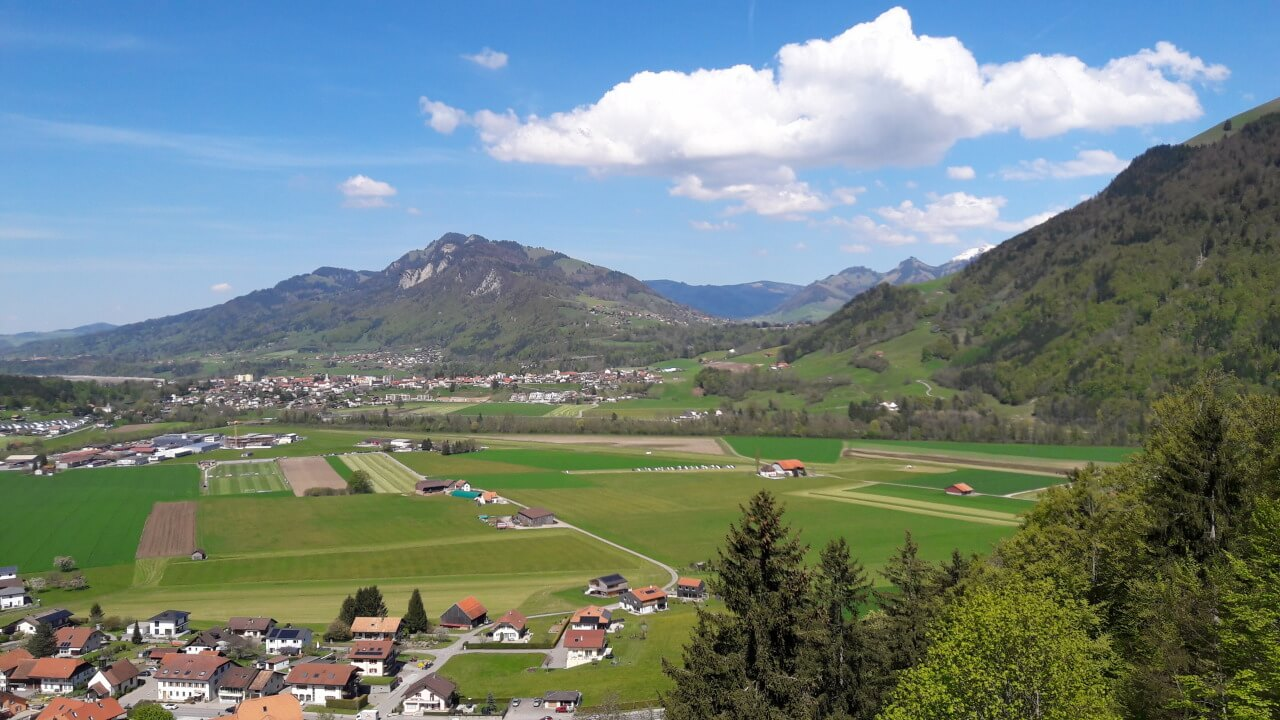
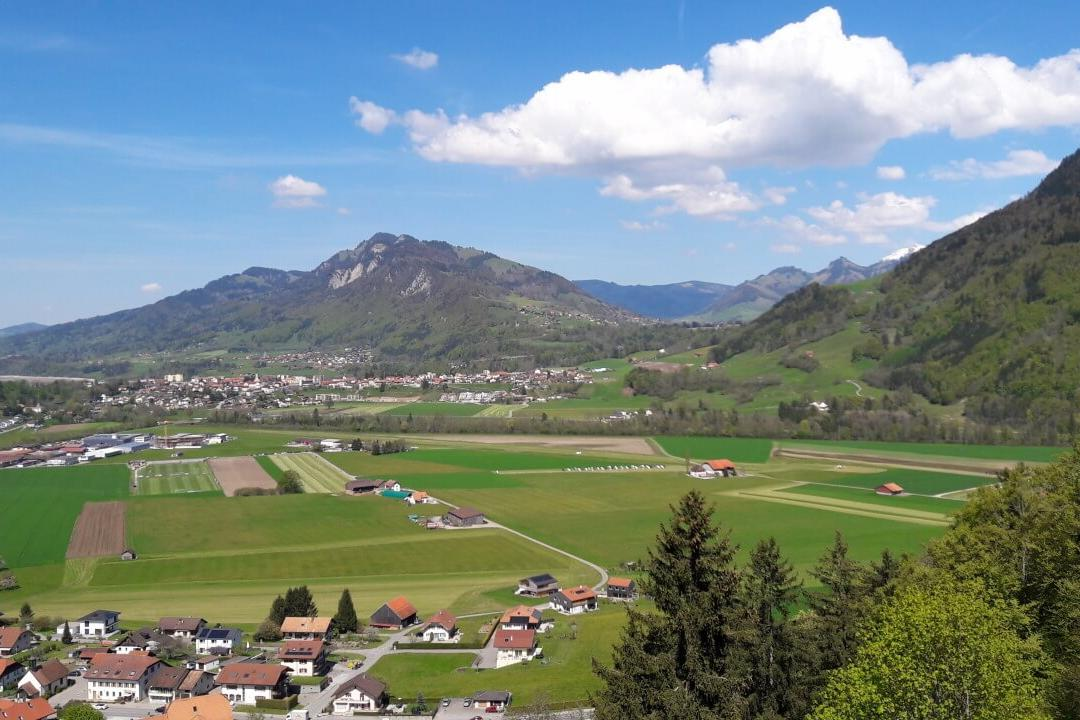
Gruyere hinzugefügt

diff --git a/Gruyere/Gruyere_komplett.tex b/Gruyere/Gruyere_komplett.tex
@@ -1,0 +1,54 @@
+\documentclass[11pt,nswissgerman]{article}
+\usepackage{helvet}
+\renewcommand{\familydefault}{\sfdefault}
+\usepackage[latin2]{inputenc}
+\usepackage[a4paper]{geometry}
+\geometry{verbose,tmargin=3cm,bmargin=3cm,lmargin=3.5cm,rmargin=3.5cm,headheight=3cm,headsep=1cm,footskip=2cm}
+\usepackage{fancyhdr}
+\pagestyle{fancy}
+\usepackage{wrapfig}
+\usepackage{graphicx}
+\usepackage[position=bottom]{subfig}
+\usepackage{titletoc}
+\usepackage{float}
+\makeatletter
+\@ifundefined{date}{}{\date{}}
+\makeatother
+\usepackage{babel}
+\usepackage[
+            colorlinks=true,
+            urlcolor=green,
+            linkcolor=black
+]{hyperref}
+\setcounter{secnumdepth}{1} % levels under \section are not numbered
+\setcounter{tocdepth}{2}    % levels under \subsection are not listed in the TOC
+\begin{document}
+\author{Stefan Bopp}
+\title{\Huge Tagebuch Gruyere 2016\vspace{2cm}
+\includegraphics[width=0.4\textwidth]{../Bilder/Logo/Logo.png}
+}
+\maketitle
+\vfill
+\tableofcontents
+
+\newpage
+
+\lhead{Gruyere 2016}
+
+\rhead{jackthebus.com}
+
+\cfoot{\thepage}
+\input{Gruyere.tex}
+\newpage
+
+\begin{figure}[H]
+    \centering
+    \includegraphics[width=\textwidth,height=14cm, keepaspectratio]{../Bilder/Logo/Logo_trans.png}
+    \label{img:Logo}
+\end{figure}
+\vfill
+    \begin{center}
+        {\huge  Weitere Informationen zum Bus und unseren Reisen sind auf der Homepage {\url{www.jackthebus.com}} zu finden}
+\end{center}
+
+\end{document}

diff --git a/Master/Master.tex b/Master/Master.tex
@@ -41,7 +41,7 @@ citecolor = black] {hyperref}
 {\Large Stefan Bopp} \\
 {\Large Chantal Frunz}
 \vfill
-{\large V1.5}
+{\large V1.8}
 \thispagestyle{empty}
 
 \end{titlepage}
@@ -80,6 +80,9 @@ citecolor = black] {hyperref}
 \newpage
 \section{Dolomiten 2014}
 \input{../Dolomiten/Dolomiten.tex}
+\newpage
+\section{Gruyere 2016}
+\input{../Gruyere/Gruyere.tex}
 \newpage
 \section{Walenstadt 2017}
 \input{../Walenstadt/Walenstadt.tex}
